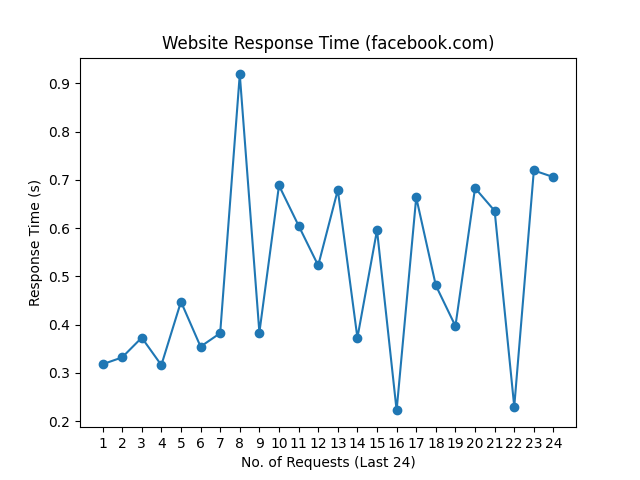
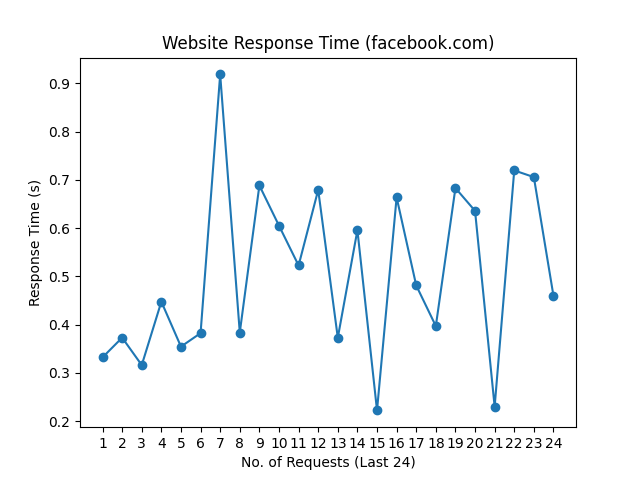
update README.md, history and graph

Changed region(s): [[0.1562, 0.125, 0.875, 0.875]]

diff --git a/README.md b/README.md
@@ -1,10 +1,10 @@
 # Web Monitoring
 
-Last Checked: 20/11/2023 09:04
+Last Checked: 21/11/2023 09:04
 
 | Website | Response Time (s) | Status | Avg Uptime (%) |
 |---------|-------------------|--------|----------------|
 | www.thiswebsiteisdown.net | 0 <br> <img src="graph/thiswebsiteisdown.net.png" alt="Graph" width="200" height="200">  | ❌ Down | 0.00 |
-| www.netflix.com | 0.988054 <br> <img src="graph/netflix.com.png" alt="Graph" width="200" height="200">  | ✅ Up | 100.00 |
-| www.google.com | 0.099449 <br> <img src="graph/google.com.png" alt="Graph" width="200" height="200">  | ✅ Up | 100.00 |
-| www.facebook.com | 0.705628 <br> <img src="graph/facebook.com.png" alt="Graph" width="200" height="200">  | ✅ Up | 100.00 |
+| www.netflix.com | 0.820760 <br> <img src="graph/netflix.com.png" alt="Graph" width="200" height="200">  | ✅ Up | 100.00 |
+| www.google.com | 0.062649 <br> <img src="graph/google.com.png" alt="Graph" width="200" height="200">  | ✅ Up | 100.00 |
+| www.facebook.com | 0.459666 <br> <img src="graph/facebook.com.png" alt="Graph" width="200" height="200">  | ✅ Up | 100.00 |
